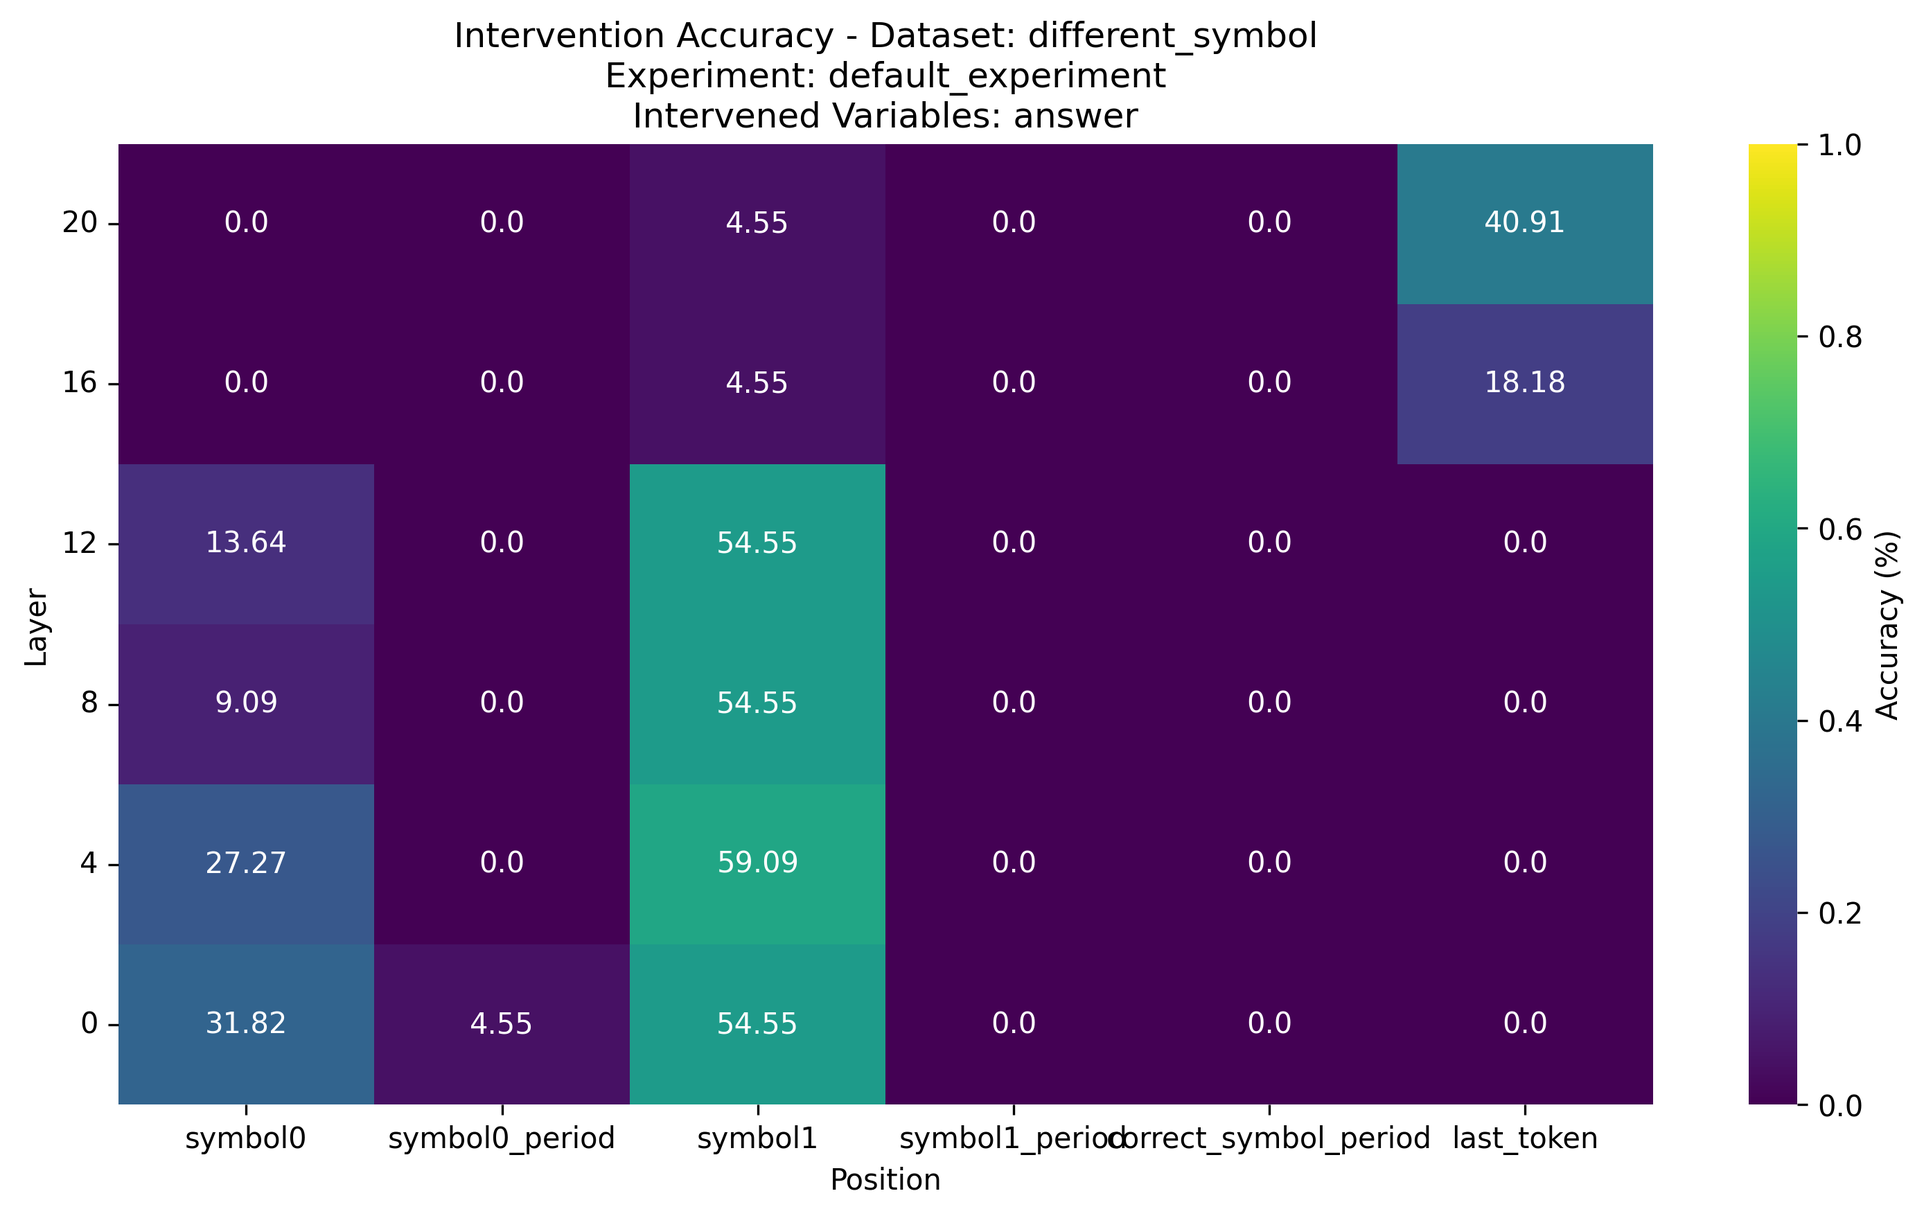
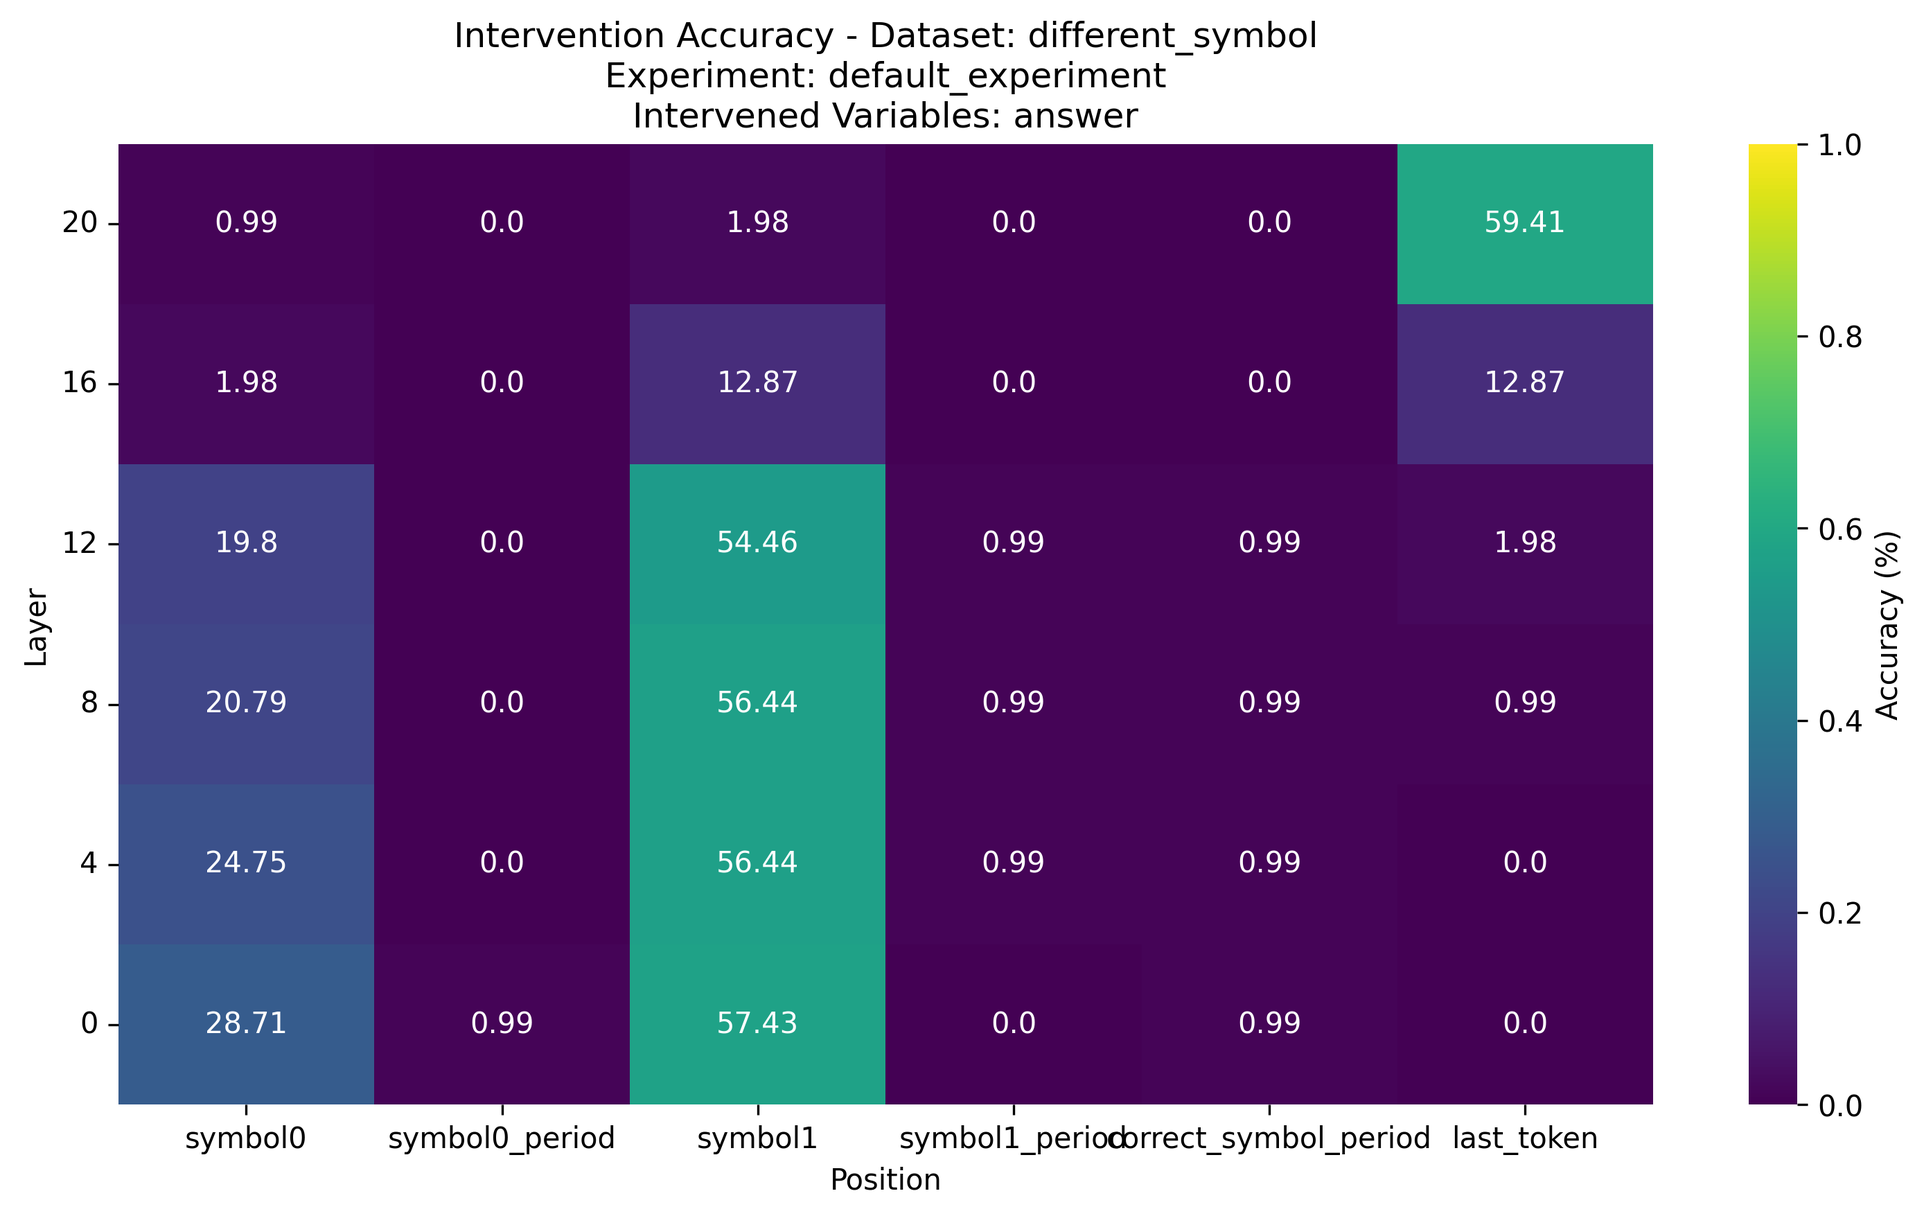
working correct attr. patching impl

diff --git a/causal/causal_utils.py b/causal/causal_utils.py
@@ -79,51 +79,69 @@ class CheapArgmaxChecker(Checker):
 
     @staticmethod
     def compute_score(
-        logits: torch.Tensor, correct: torch.Tensor
-    ) -> torch.Tensor:
-        return (logits.gather(-1, correct.unsqueeze(-1)) - logits.detach()).sum()
-
-    def check_attribution(self, attribution_score, **kwargs) -> float:
+        logits: torch.Tensor, correct: torch.Tensor, other_choices: torch.Tensor
+    ):
         """
-        Check if some attribution score indicates correct prediction.
-        note that attribution score != metric_score,
-        metric score is part of the attribution score
+        Compute difference between correct choice logit and other choice logits.
 
         Args:
-            attribution_score: Pre-computed cheap_argmax score (scalar or tensor)
-            **kwargs: Must contain:
-                - correct: correct token index (int or Tensor)
-                - logits: logits tensor (1D for single example or 2D for batch)
+            logits: Logits tensor, shape [vocab_size] or [batch_size, vocab_size]
+            correct: Correct token index, shape [] or [batch_size]
+            other_choices: Other choice token indices, shape [n_choices] or [batch_size, n_choices]
 
         Returns:
-            1.0 if correct, 0.0 otherwise (or tensor of scores for batched inputs)
+            tuple: (metric, sum_other_logits) where
+                - metric = logits[correct] - sum(logits[other_choices])
+                - sum_other_logits = sum(logits[other_choices])
         """
-
-        correct_index = kwargs["correct"]  # int or tensor [batch_size]
-        logits = kwargs["logits"]  # [V] or [batch_size, V]
-
-        # Handle both batched and unbatched inputs
         is_batched = logits.dim() == 2
 
         if is_batched:
-            # Batched processing
-            # attribution_score: [batch_size]
-            # correct_index: [batch_size]
-            # logits: [batch_size, V]
-            logits = logits.clone()  # Don't modify the original
-            batch_size = logits.shape[0]
+            # logits: [batch_size, vocab_size]
+            # correct: [batch_size]
+            # other_choices: [batch_size, n_choices]
+            correct_logits = logits.gather(-1, correct.unsqueeze(-1)).squeeze(-1)  # [batch_size]
 
-            # Replace the correct token's logit with the attribution score for each example
-            logits[torch.arange(batch_size, device=logits.device), correct_index] = attribution_score
+            # Gather all other choice logits: [batch_size, n_choices]
+            other_logits = logits.gather(-1, other_choices)
+            sum_other_logits = other_logits.sum(dim=-1)  # [batch_size]
 
-            # Check if the correct token has highest logit for each example
-            predictions = torch.argmax(logits, dim=-1)
-            return (predictions == correct_index).float()
+            # Return metric and sum of other logits
+            return correct_logits - sum_other_logits, sum_other_logits
         else:
-            # Single example processing (backward compatibility)
-            logits = logits.clone()  # Don't modify the original
-            logits[correct_index] = attribution_score
-            return float(torch.argmax(logits) == correct_index)
+            # logits: [vocab_size]
+            # correct: scalar
+            # other_choices: [n_choices]
+            correct_logit = logits[correct]  # scalar
+            other_logits = logits[other_choices]  # [n_choices]
+            sum_other_logits = other_logits.sum()  # scalar
+
+            return correct_logit - sum_other_logits, sum_other_logits
+
+    def check_attribution(self, attribution_score, **kwargs) -> float:
+        """
+        Check if attribution score indicates correct prediction.
+
+        The attribution_score (approx) approximates: logit_cf[correct]
+        We compare against sum_other_logits_base to check if correct wins.
+
+        Args:
+            attribution_score: Approximated correct logit (scalar or tensor)
+            **kwargs: Must contain 'sum_other_logits' - sum of base other choice logits
+
+        Returns:
+            1.0 if correct (approx > sum_other_logits), 0.0 otherwise
+        """
+        sum_other_logits = kwargs.get("sum_other_logits")
+        if sum_other_logits is None:
+            raise ValueError("check_attribution requires 'sum_other_logits' in kwargs")
+
+        is_batched = isinstance(attribution_score, torch.Tensor) and attribution_score.dim() > 0
+
+        if is_batched:
+            return (attribution_score > sum_other_logits).float()
+        else:
+            return float(attribution_score > sum_other_logits)
 
 
 def can_distinguish_with_dataset(
@@ -304,8 +322,10 @@ def compute_attribution_scores(
             unit_data = attribution_data[0][0]
             inputs = unit_data.get("inputs", [])
             approx_scores = unit_data.get("approx", None)
+            sum_other_logits = unit_data.get("sum_other_logits", [])
             logits = unit_data.get("logits", [])
             correct_token_ids = unit_data.get("correct_token_ids", [])
+            other_choice_token_ids = unit_data.get("other_choice_token_ids", [])
 
             # Fall back to metric_scores if approx not available (backward compatibility)
             if approx_scores is None:
@@ -341,15 +361,13 @@ def compute_attribution_scores(
                 # Compute correctness scores using checker
                 scores = []
                 for idx, approx_score in enumerate(approx_scores):
-                    # Prepare kwargs for checker
-                    checker_kwargs = {"is_intervention": False}
-
-                    # Add logits and correct token IDs if available (for CheapArgmaxChecker)
-                    if len(logits) > 0 and len(correct_token_ids) > 0:
-                        checker_kwargs["logits"] = logits[idx]
-                        checker_kwargs["correct"] = correct_token_ids[idx]
-
-                    score = checker(approx_score, **checker_kwargs)
+                    # For CheapArgmaxChecker, we pass the approx score and sum_other_logits
+                    # The checker will evaluate: is approx > sum_other_logits?
+                    score = checker(
+                        approx_score,
+                        is_intervention=False,
+                        sum_other_logits=sum_other_logits[idx] if sum_other_logits else None
+                    )
                     scores.append(score)
 
                 # Store processed results

diff --git a/experiments/pyvene_core.py b/experiments/pyvene_core.py
@@ -467,6 +467,7 @@ def _run_attribution_patching(
     counterfactual_dataset: CounterfactualDataset,
     model_units_list: List[List[AtomicModelUnit]],
     get_correct_token_fn: Callable,
+    get_other_choice_tokens_fn: Callable = None,
     verbose: bool = False,
     batch_size=32,
 ) -> List[List[Dict[str, torch.Tensor]]]:
@@ -483,10 +484,11 @@ def _run_attribution_patching(
 
     Args:
         pipeline: The language model pipeline
-        metric_fn: Function to compute loss (receives logits and correct_token_ids)
+        metric_fn: Function to compute loss (receives logits, correct_token_ids, other_choice_ids)
         counterfactual_dataset: Dataset with base and counterfactual inputs
         model_units_list: Model units to compute attributions for
         get_correct_token_fn: Function to extract correct answer token string from an input dict
+        get_other_choice_tokens_fn: Function to extract other choice token strings from an input dict (returns list of strings)
         verbose: Whether to show progress bars
         batch_size: Batch size for processing
 
@@ -510,7 +512,7 @@ def _run_attribution_patching(
 
     # Initialize container for collected features: one list per model unit group
     data = [
-        [{"base": [], "cf": [], "grad": [], "metric_scores": [], "inputs": [], "logits": [], "correct_token_ids": []} for _ in range(len(model_units))]
+        [{"base": [], "cf": [], "grad": [], "metric_scores": [], "sum_other_logits": [], "inputs": [], "logits": [], "correct_token_ids": [], "other_choice_token_ids": []} for _ in range(len(model_units))]
         for model_units in model_units_list
     ]
 
@@ -585,8 +587,21 @@ def _run_attribution_patching(
             ]
             correct_token_ids = torch.tensor(correct_token_ids, device=logits.device)
 
+            # Extract other choice tokens if function provided
+            other_choice_token_ids = None
+            if get_other_choice_tokens_fn is not None:
+                # get_other_choice_tokens_fn returns list of token strings for each item
+                other_choice_token_lists = [get_other_choice_tokens_fn(item) for item in batch['input']]
+                # Convert to token IDs: [[id1, id2], [id1, id2], ...]
+                other_choice_token_ids = [
+                    [pipeline.tokenizer.encode(token, add_special_tokens=False)[0] for token in tokens]
+                    for tokens in other_choice_token_lists
+                ]
+                other_choice_token_ids = torch.tensor(other_choice_token_ids, device=logits.device)
+
             # Compute metric scores for each example (for later evaluation)
-            metric_scores = metric_fn(logits, correct_token_ids)
+            # metric_fn now returns (metric_scores, sum_other_logits)
+            metric_scores, sum_other_logits = metric_fn(logits, correct_token_ids, other_choice_token_ids)
 
             loss = metric_scores.mean()
             loss.backward()
@@ -600,9 +615,13 @@ def _run_attribution_patching(
                 for j in range(len(model_units_list[i])):
                     data[i][j]["inputs"].extend(batch['input'])
                     data[i][j]["metric_scores"].extend(metric_scores.detach().cpu().tolist())
+                    data[i][j]["sum_other_logits"].extend(sum_other_logits.detach().cpu().tolist())
                     # Store per-example logits and correct token IDs for checker
                     data[i][j]["logits"].extend(last_logits)
                     data[i][j]["correct_token_ids"].extend(correct_token_ids.cpu())
+                    # Store other choice token IDs if available
+                    if other_choice_token_ids is not None:
+                        data[i][j]["other_choice_token_ids"].extend(other_choice_token_ids.cpu())
 
             # populate container with base and cf activations
             process_activations(
@@ -634,8 +653,10 @@ def _run_attribution_patching(
                 "grad": torch.stack(datum["grad"]),
                 "inputs": datum["inputs"],  # Preserve inputs
                 "metric_scores": datum["metric_scores"],  # Preserve metric_scores
+                "sum_other_logits": datum["sum_other_logits"],  # Preserve sum of other choice logits
                 "logits": datum["logits"],  # Preserve logits for checker
                 "correct_token_ids": datum["correct_token_ids"],  # Preserve correct token IDs for checker
+                "other_choice_token_ids": datum["other_choice_token_ids"],  # Preserve other choice token IDs for checker
             }
             for datum in x
         ]
@@ -654,11 +675,13 @@ def _run_attribution_patching(
             # Store aggregated attribution score (mean across samples)
             data[i][j]["attribution_score"] = torch.abs(raw_score_per_sample.mean(dim=0))
 
-            # Compute per-example approximation: gradient term + base metric score
-            # This approximates the counterfactual metric via Taylor expansion:
-            # metric(counterfactual) ≈ metric(base) + grad · (h_cf - h_base)
+            # Compute per-example approximation of logit[correct] after intervention:
+            # approx ≈ logit_base[correct] + grad · (h_cf - h_base)
+            # where: metric_base = logit_base[correct] - sum(logit_base[other_choices])
+            # So: approx = metric_base + grad·Δh + sum(logit_base[other_choices])
             metric_scores_tensor = torch.tensor(data[i][j]["metric_scores"])
-            data[i][j]["approx"] = raw_score_per_sample + metric_scores_tensor
+            sum_other_logits_tensor = torch.tensor(data[i][j]["sum_other_logits"])
+            data[i][j]["approx"] = raw_score_per_sample + metric_scores_tensor + sum_other_logits_tensor
 
     # Clean up the intervenable model to free GPU memory
     _delete_intervenable_model(intervenable_model)

diff --git a/demos/dev/localization_comparison.py b/demos/dev/localization_comparison.py
@@ -16,7 +16,7 @@ import time
 
 import torch
 
-from causal.causal_utils import CheapArgmaxChecker
+from causal.causal_utils import CheapArgmaxChecker, StringMatchChecker
 from experiments.filter_experiment import FilterExperiment
 from experiments.LM_experiments.residual_stream_experiment import PatchResidualStream
 from neural.pipeline import LMPipeline
@@ -40,7 +40,6 @@ pipeline.tokenizer.padding_side = "left"
 causal_model = MCQA_task.causal_models["positional"]
 
 # Use different checkers for each experiment type
-from causal.causal_utils import CheapArgmaxChecker, StringMatchChecker
 
 causal_model = MCQA_task.causal_models["positional"]
 
@@ -60,7 +59,7 @@ os.makedirs(results_dir_patching, exist_ok=True)
 os.makedirs(results_dir_attribution, exist_ok=True)
 
 # Create datasets
-size = 64  # Smaller for faster iteration while testing
+size = 256  # Smaller for faster iteration while testing
 counterfactual_datasets = MCQA_task.create_datasets(size)
 
 # Filter datasets using intervention checker
@@ -170,17 +169,38 @@ def get_correct_token(item):
     return get_answer(pos, item["symbol0"], item["symbol1"])
 
 
-# Define metric function for batched inputs
-def metric_fn(logits, correct_token_ids):
+# Define function to get other choice tokens (for fixed attribution patching)
+def get_other_choice_tokens(item):
+    """Return the token that is NOT the correct answer."""
+    pos = get_answer_position(item["object_color"], item["choice0"], item["choice1"])
+    correct = get_answer(pos, item["symbol0"], item["symbol1"])
+    # Return the other choice
+    if correct == item["symbol0"]:
+        return [item["symbol1"]]
+    else:
+        return [item["symbol0"]]
+
+
+# Define metric function for batched inputs (FIXED: now requires other_choice_token_ids)
+def metric_fn(logits, correct_token_ids, other_choice_token_ids):
     # logits: (batch_size, seq_len, vocab_size)
     # correct_token_ids: (batch_size,)
+    # other_choice_token_ids: (batch_size, n_choices)
     last_logits = logits[:, -1, :]  # Get logits for last token
-    return torch.stack(
-        [
-            CheapArgmaxChecker.compute_score(last_logits[i], correct_token_ids[i])
-            for i in range(len(correct_token_ids))
-        ]
-    )
+
+    # compute_score now returns (metric, sum_other_logits)
+    results = [
+        CheapArgmaxChecker.compute_score(
+            last_logits[i], correct_token_ids[i], other_choice_token_ids[i]
+        )
+        for i in range(len(correct_token_ids))
+    ]
+
+    # Unpack metrics and sum_other_logits
+    metrics = torch.stack([r[0] for r in results])
+    sum_other_logits = torch.stack([r[1] for r in results])
+
+    return metrics, sum_other_logits
 
 
 start_time = time.time()
@@ -192,6 +212,7 @@ attribution_results = experiment.perform_attribution_patching(
     filtered_datasets,
     metric_fn=metric_fn,
     get_correct_token_fn=get_correct_token,
+    get_other_choice_tokens_fn=get_other_choice_tokens,  # FIXED: Pass other choices function
     verbose=True,
     target_variables_list=target_variables_list,  # Use same target variables as activation patching
 )

diff --git a/tests/integration/test_attribution_patching_basic.py b/tests/integration/test_attribution_patching_basic.py
@@ -58,21 +58,46 @@ class TestAttributionPatchingBasic:
             pos = get_answer_position(item['object_color'], item['choice0'], item['choice1'])
             return get_answer(pos, item['symbol0'], item['symbol1'])
 
-        # Define metric function for batched inputs
-        def metric_fn(logits, correct_token_ids):
+        # Define function to get other choice tokens
+        def get_other_choice_tokens(item):
+            """Return the token that is NOT the correct answer."""
+            pos = get_answer_position(item['object_color'], item['choice0'], item['choice1'])
+            correct = get_answer(pos, item['symbol0'], item['symbol1'])
+            # Return the other choice
+            if correct == item['symbol0']:
+                return [item['symbol1']]
+            else:
+                return [item['symbol0']]
+
+        # Define metric function for batched inputs (FIXED: now accepts other_choice_token_ids)
+        def metric_fn(logits, correct_token_ids, other_choice_token_ids):
             # logits: (batch_size, seq_len, vocab_size)
             # correct_token_ids: (batch_size,)
+            # other_choice_token_ids: (batch_size, n_choices)
             last_logits = logits[:, -1, :]  # Get logits for last token
-            return torch.stack([
-                CheapArgmaxChecker.compute_score(last_logits[i], correct_token_ids[i])
-                for i in range(len(correct_token_ids))
-            ])
 
-        # Run attribution patching
+            # compute_score now returns (metric, sum_other_logits)
+            results = [
+                CheapArgmaxChecker.compute_score(
+                    last_logits[i],
+                    correct_token_ids[i],
+                    other_choice_token_ids[i]
+                )
+                for i in range(len(correct_token_ids))
+            ]
+
+            # Unpack metrics and sum_other_logits
+            metrics = torch.stack([r[0] for r in results])
+            sum_other_logits = torch.stack([r[1] for r in results])
+
+            return metrics, sum_other_logits
+
+        # Run attribution patching (FIXED: pass get_other_choice_tokens_fn)
         results = experiment.perform_attribution_patching(
             datasets,
             metric_fn=metric_fn,
             get_correct_token_fn=get_correct_token,
+            get_other_choice_tokens_fn=get_other_choice_tokens,
             target_variables_list=[["answer"]],
             verbose=True
         )

diff --git a/experiments/intervention_experiment.py b/experiments/intervention_experiment.py
@@ -265,7 +265,7 @@ class InterventionExperiment:
 
         return results
 
-    def perform_attribution_patching(self, datasets, metric_fn: Callable, get_correct_token_fn: Callable, target_variables_list: List[List[str]], verbose: bool = False, save_dir=None):
+    def perform_attribution_patching(self, datasets, metric_fn: Callable, get_correct_token_fn: Callable, target_variables_list: List[List[str]], get_other_choice_tokens_fn: Callable = None, verbose: bool = False, save_dir=None):
         """
         Perform attribution patching to approximate intervention effects using gradients.
 
@@ -286,9 +286,10 @@ class InterventionExperiment:
         Args:
             datasets: Dictionary mapping dataset names to CounterfactualDataset objects,
                      or a single CounterfactualDataset
-            metric_fn: Function to compute loss (receives logits and correct_token_ids)
+            metric_fn: Function to compute loss (receives logits, correct_token_ids, other_choice_ids)
             get_correct_token_fn: Function to extract correct answer token string from input dict
             target_variables_list: List of causal variable groups to evaluate (e.g., [["answer"], ["answer_position"]])
+            get_other_choice_tokens_fn: Function to extract other choice token strings from input dict (returns list of strings)
             verbose: Whether to show progress bars during execution
             save_dir: Directory to save results (if provided)
 
@@ -334,6 +335,7 @@ class InterventionExperiment:
                 counterfactual_dataset=datasets[dataset_name],
                 model_units_list=all_units_batched,
                 get_correct_token_fn=get_correct_token_fn,
+                get_other_choice_tokens_fn=get_other_choice_tokens_fn,
                 verbose=verbose,
                 batch_size=self.config["batch_size"]
             )
